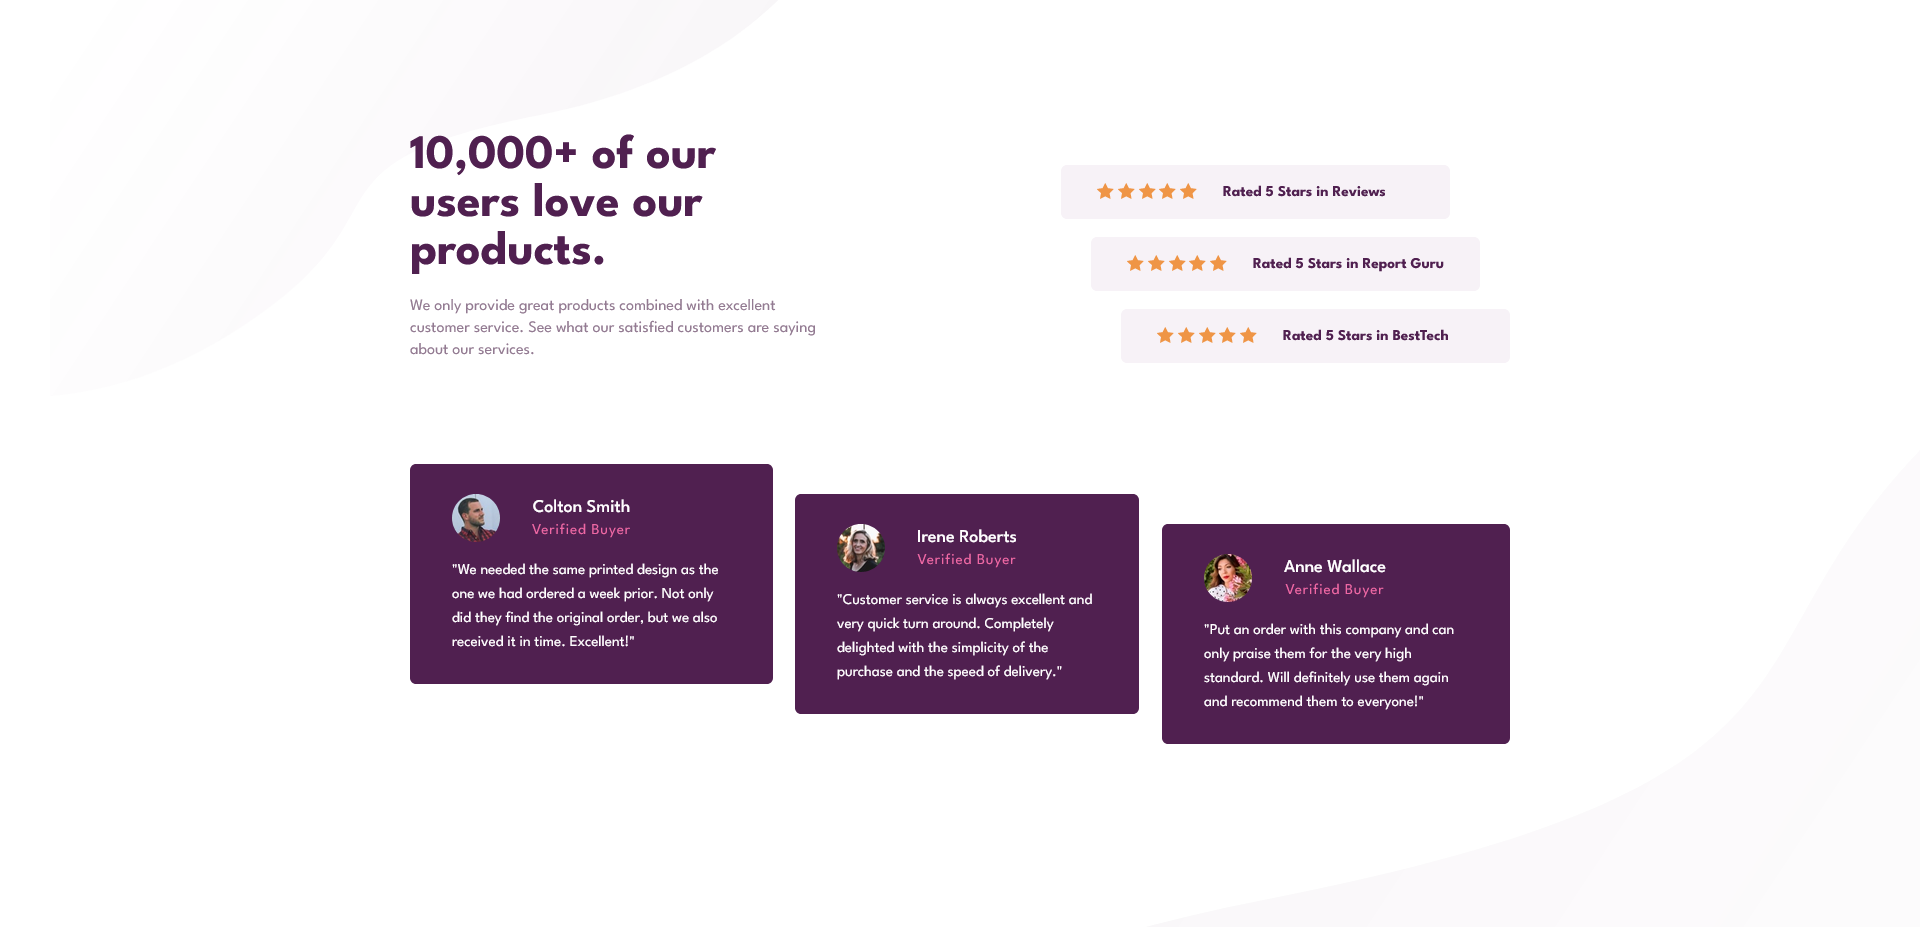
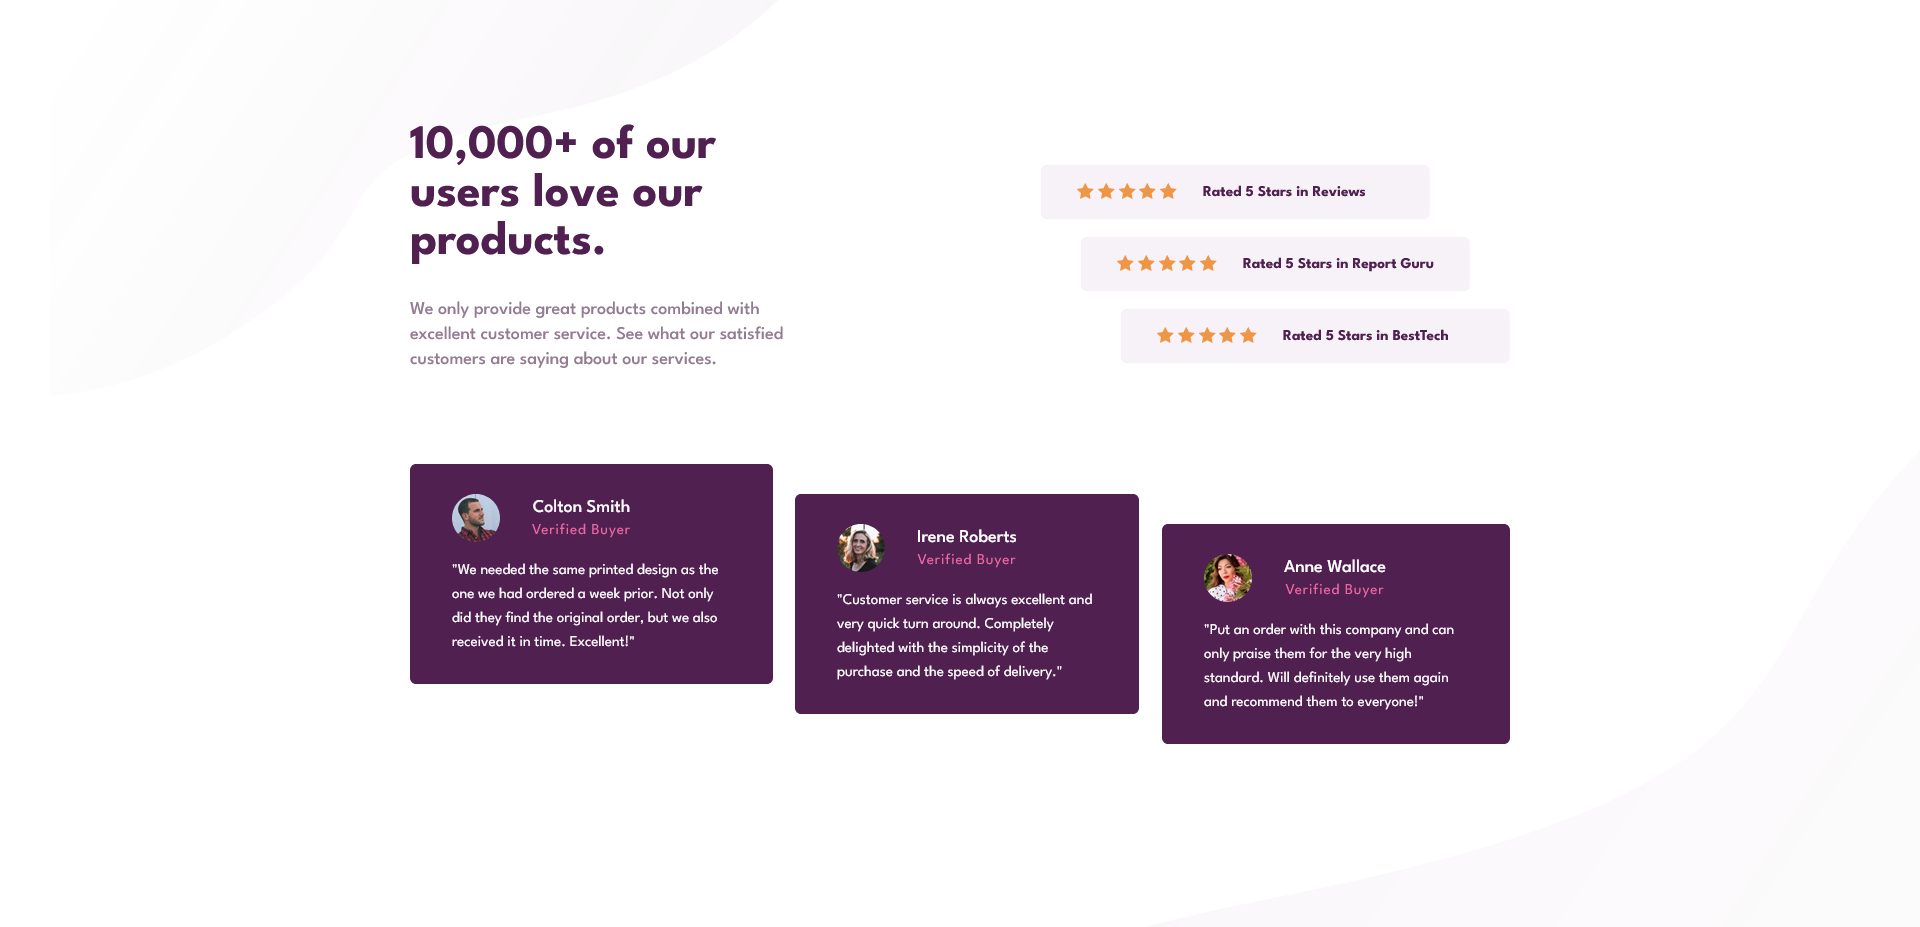
Update styles

diff --git a/styles.css b/styles.css
@@ -94,6 +94,12 @@ body {
 
     .text h1 {
         font-size: 3rem;
+        margin-bottom: 1.875rem;
+    }
+
+    .main-text {
+        font-size: 1.125rem;
+        font-weight: 500;
     }
 
     .star-boxes {
@@ -125,11 +131,11 @@ body {
     }
 
     .star-box:nth-child(2) {
-        transform: translateX(-30px);
+        transform: translateX(-40px);
     }
 
     .star-box:nth-child(1) {
-        transform: translateX(-60px);
+        transform: translateX(-80px);
     }
 }
 
